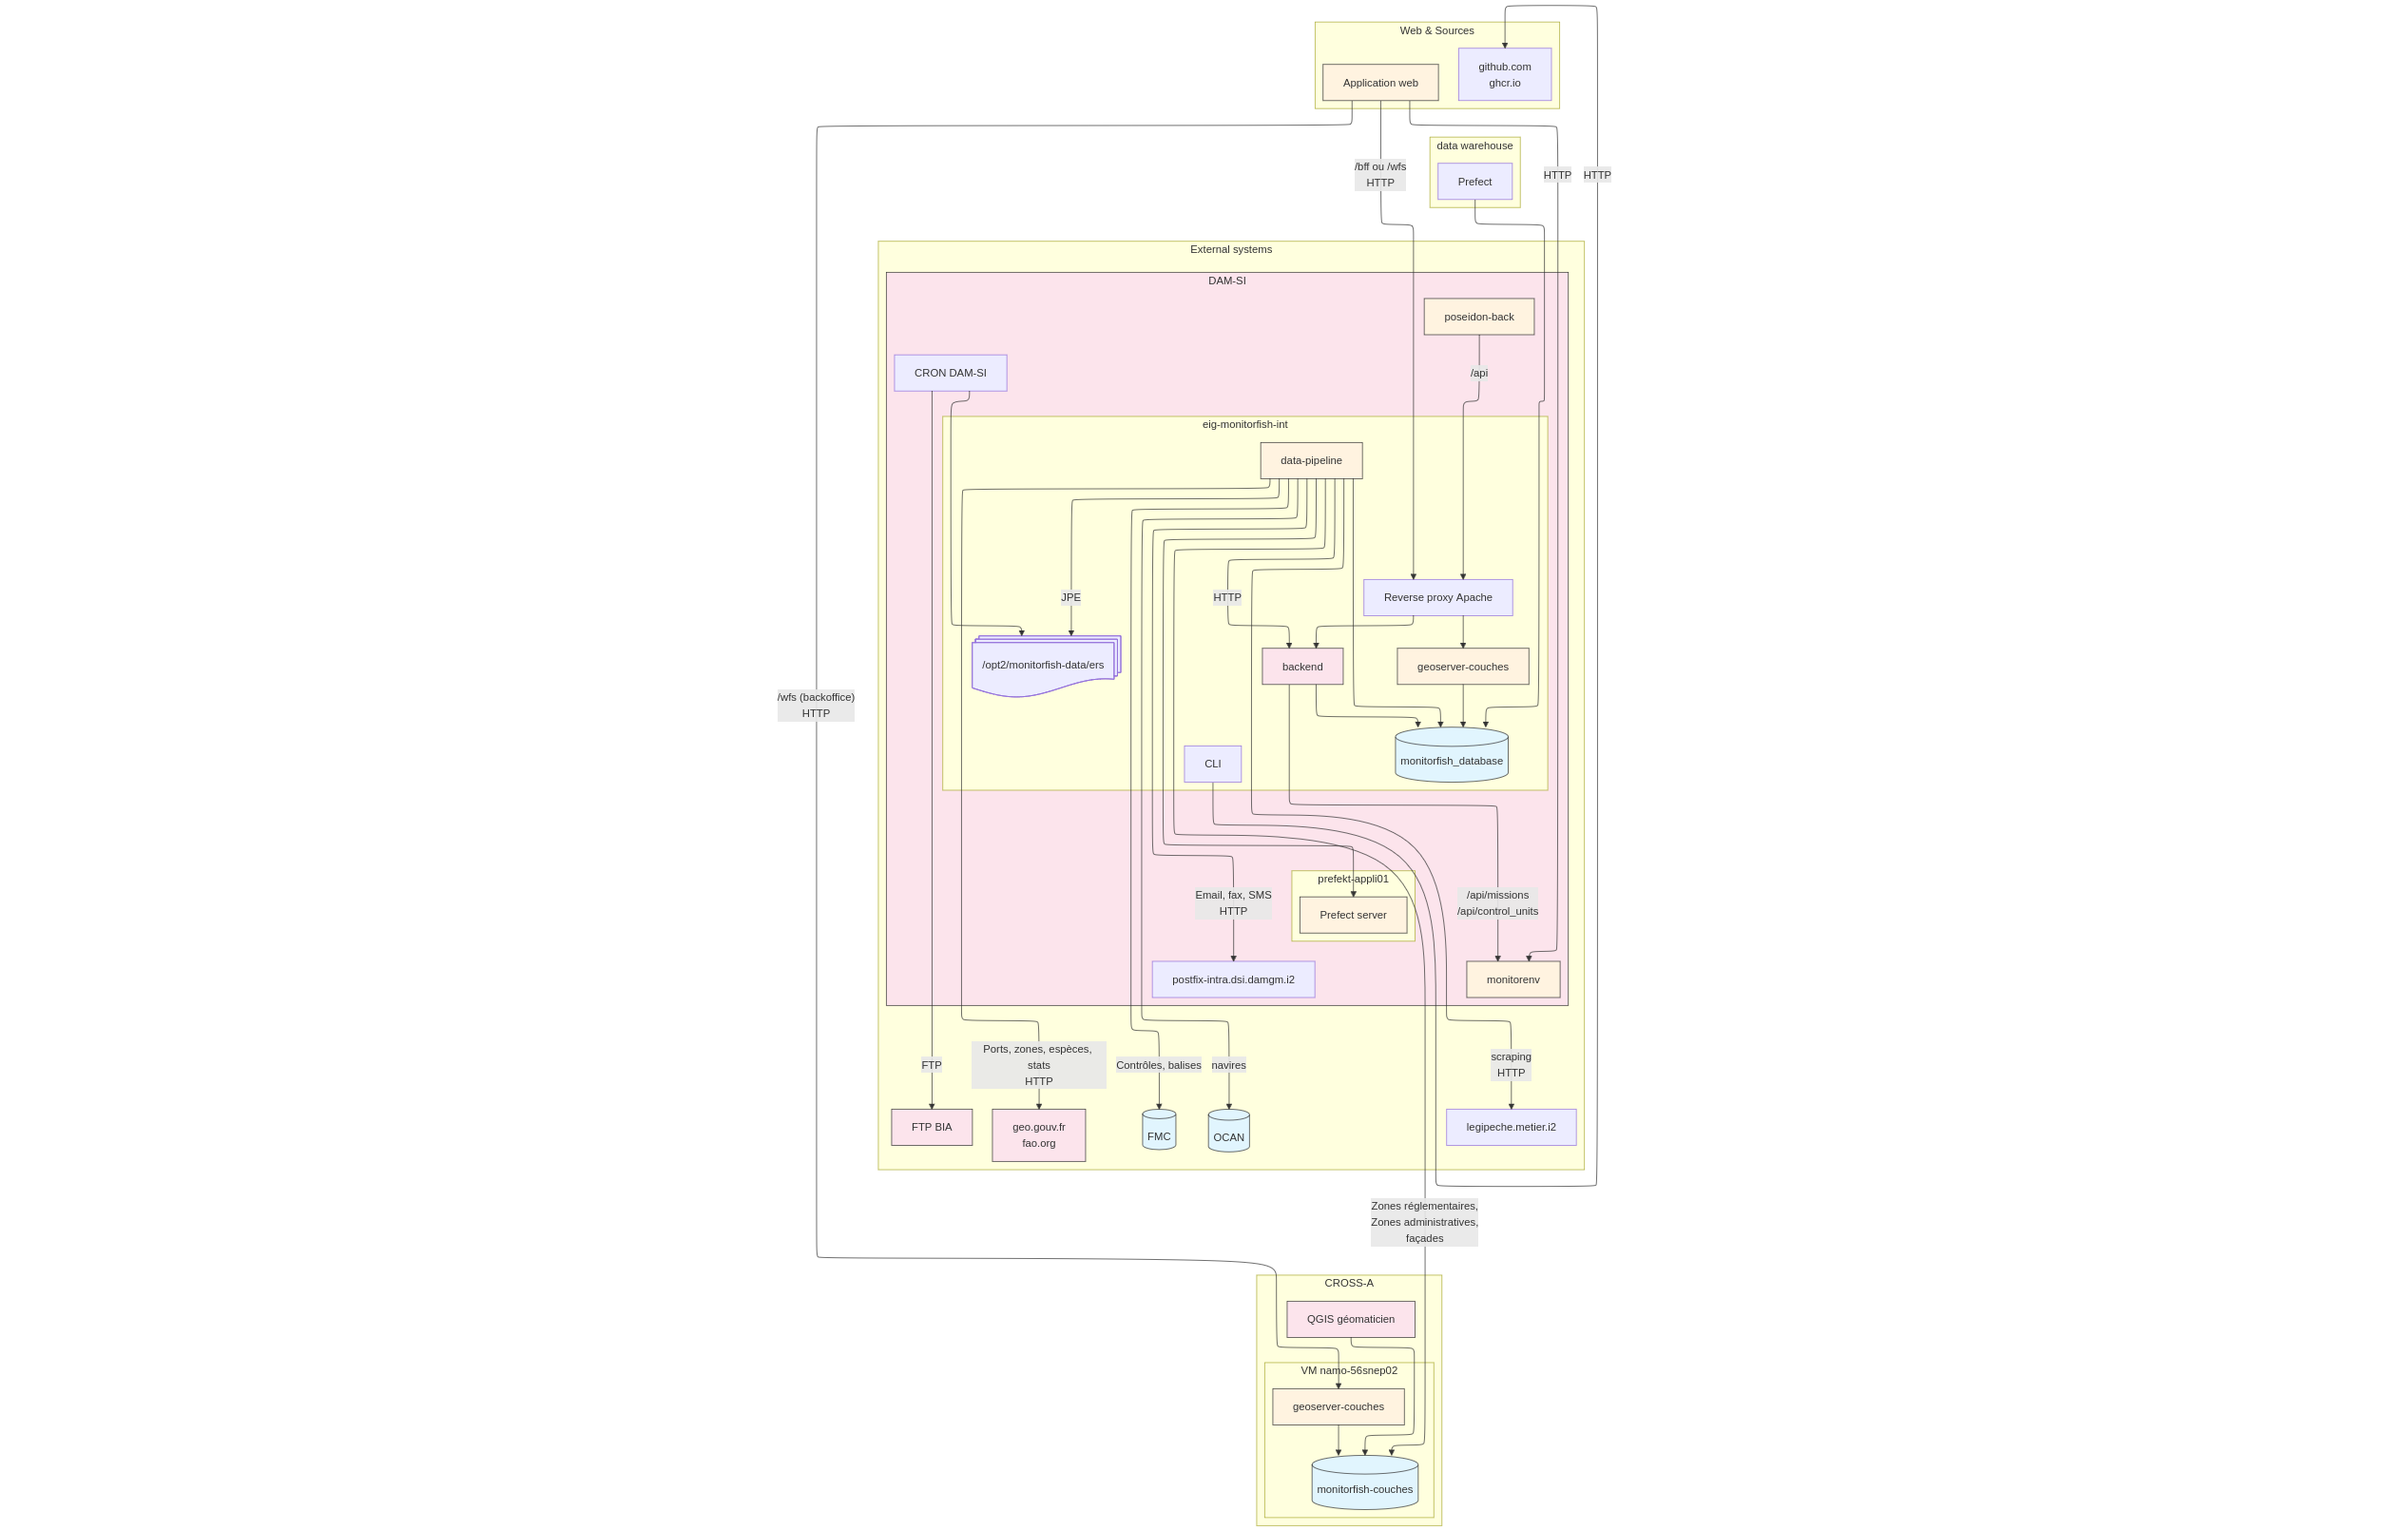
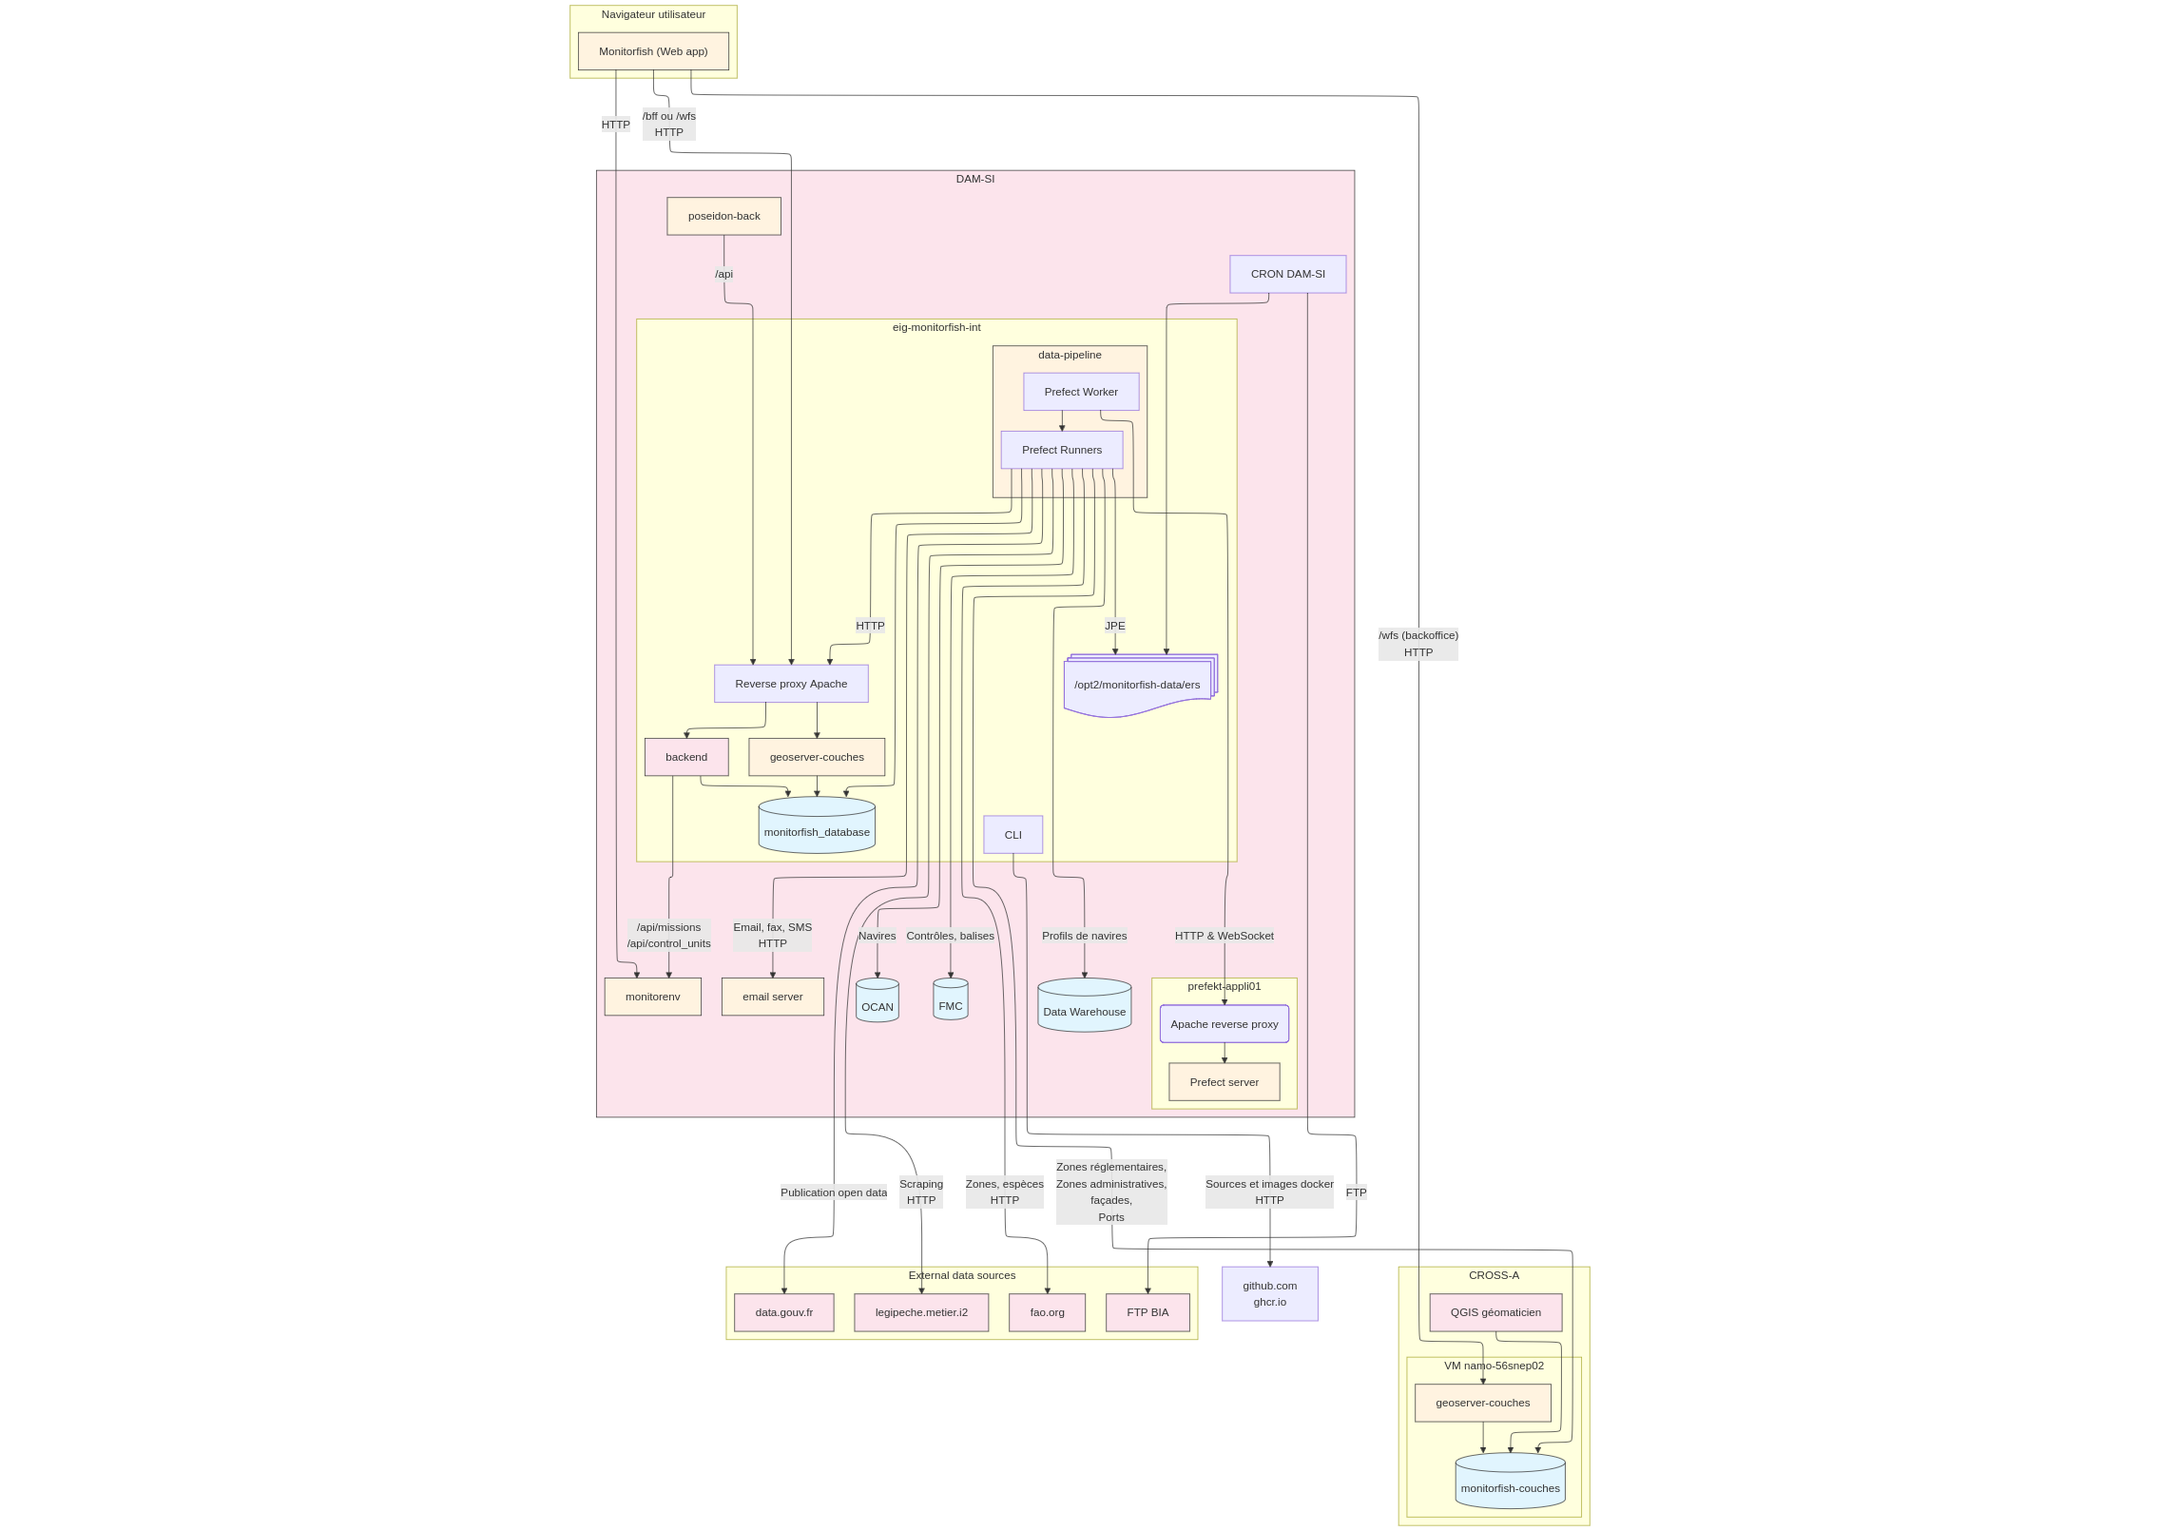
Update architecture diagram

Changed region(s): [[0.25, 0.0, 0.75, 1.0]]

diff --git a/infra/remote/architecture.md b/infra/remote/architecture.md
@@ -4,9 +4,13 @@ config:
   layout: elk
 ---
 flowchart TB
- subgraph Left["Web & Sources"]
-        App["Application web"]
-        Github["github.com<br>ghcr.io"]
+
+ subgraph Web["Navigateur utilisateur"]
+        App["Monitorfish (Web app)"]
+  end
+ subgraph Pipeline["data-pipeline"]
+    Worker["Prefect Worker"]
+    Runners["Prefect Runners"]
   end
  subgraph eig["eig-monitorfish-int"]
         Cli["CLI"]
@@ -19,10 +23,8 @@ flowchart TB
         JPE@{ shape: docs}
   end
  subgraph Prefect["prefekt-appli01"]
+        PrefectApache("Apache reverse proxy")
         PrefectApp["Prefect server"]
-  end
- subgraph PrefectDataWarehouse["data warehouse"]
-        PrefectAppDataWarehouse["Prefect"]
   end
  subgraph CrossA["VM namo-56snep02"]
         CrossGeoserver["geoserver-couches"]
@@ -34,43 +36,48 @@ flowchart TB
         Poseidon["poseidon-back"]
         Prefect
         CronJPE["CRON DAM-SI"]
-        Services["postfix-intra.dsi.damgm.i2"]
+        Services["email server"]
+        FMC[("FMC")]
+        Ocan[("OCAN")]
+        DW[("Data Warehouse")]
   end
  subgraph CROSSA["CROSS-A"]
         CrossA
         QGIS["QGIS géomaticien"]
   end
- subgraph Right["External systems"]
-        FMC[("FMC")]
+ subgraph external_systems["External data sources"]
         Legipeche["legipeche.metier.i2"]
-        Ocan[("OCAN")]
-        DAMSI
         BIA["FTP BIA"]
-        GeoData["geo.gouv.fr<br>fao.org"]
+        Datagouv["data.gouv.fr"]
+        FAO["fao.org"]
   end
     App -- /bff ou /wfs<br>HTTP --> Apache
     App -- HTTP --> Monitorenv
     App -- /wfs (backoffice)<br>HTTP --> CrossGeoserver
     Apache --> Backend & GeoserverC
-    Cli -- HTTP --> Github
+    Cli -- Sources et images docker<br>HTTP --> Github["github.com<br>ghcr.io"]
     Poseidon -- /api --> Apache
     Backend -- /api/missions<br>/api/control_units --> Monitorenv
     Backend --> DB
     GeoserverC --> DB
     CronJPE -- FTP --> BIA
     CronJPE --> JPE
-    Pipeline --> DB & PrefectApp
-    Pipeline -- JPE --> JPE
-    Pipeline -- scraping<br>HTTP --> Legipeche
-    Pipeline -- Contrôles, balises --> FMC
-    Pipeline -- navires --> Ocan
-    Pipeline -- HTTP --> Backend
-    Pipeline -- Email, fax, SMS<br>HTTP --> Services
-    Pipeline -- Ports, zones, espèces, stats<br>HTTP --> GeoData
+    Runners --> DB
+    Worker -- HTTP & WebSocket --> PrefectApache
+    Worker --> Runners
+    PrefectApache --> PrefectApp
+    Runners -- JPE --> JPE
+    Runners -- Scraping<br>HTTP --> Legipeche
+    Runners -- Contrôles, balises --> FMC
+    Runners -- Profils de navires --> DW
+    Runners -- Navires --> Ocan
+    Runners -- HTTP --> Apache
+    Runners -- Email, fax, SMS<br>HTTP --> Services
+    Runners -- Zones, espèces<br>HTTP --> FAO
+    Runners -- Publication open data --> Datagouv
     CrossGeoserver --> CrossDB
     QGIS --> CrossDB
-    PrefectAppDataWarehouse --> DB
-    Pipeline -- Zones réglementaires,<br>Zones administratives,<br>façades --> CrossDB
+    Runners -- Zones réglementaires,<br>Zones administratives,<br>façades,<br>Ports --> CrossDB
      App:::service
      Backend:::external
      GeoserverC:::service
@@ -79,17 +86,20 @@ flowchart TB
      PrefectApp:::service
      CrossGeoserver:::service
      CrossDB:::db
+     DW:::db
      Monitorenv:::service
+     Services:::service
      Poseidon:::service
      QGIS:::external
      FMC:::db
      Ocan:::db
      DAMSI:::external
      BIA:::external
-     GeoData:::external
+     Datagouv:::external
+     Legipeche:::external
+     FAO:::external
     classDef server fill:#f9f9f9,stroke:#333,stroke-width:1px
     classDef db fill:#e1f5fe,stroke:#333,stroke-width:1px
     classDef service fill:#fff3e0,stroke:#333,stroke-width:1px
     classDef external fill:#fce4ec,stroke:#333,stroke-width:1px
-
 ```
